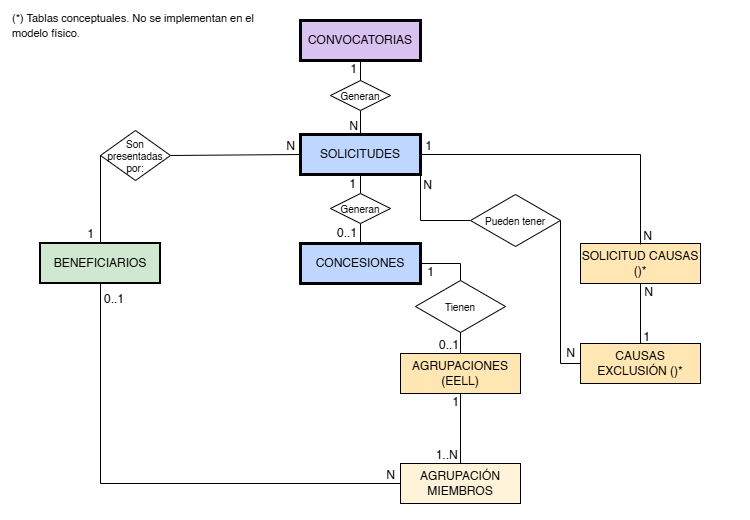
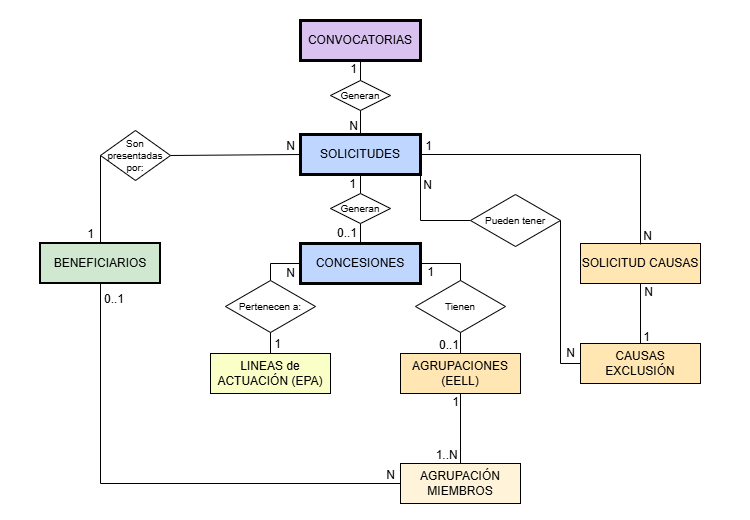
docs: corregir causas exclusion EELL y añadir nota de validacion pendiente

diff --git a/docs/modelo-datos.md b/docs/modelo-datos.md
@@ -35,7 +35,7 @@ Los documentos oficiales publicados por la DGDA contienen:
 - importes concedidos
 - puntuaciones
 - entidades beneficiarias
-- causas de exclusión (solo en EELL 2025)
+- causas de exclusión (solo en EELL: 2023, 2024 y 2025)
 - tramos (solo en EELL 2025)
 
 ---
@@ -349,6 +349,8 @@ Los documentos oficiales indican que una solicitud puede ser excluida por varias
 Por ello se mantiene la estructura normalizada `causas_exclusion` + `solicitud_causas` en el **modelo conceptual**, representada en el diagrama con asterisco (*) y la nota "Tablas conceptuales. No se implementan en el modelo físico actual del proyecto por viabilidad técnica."
 
 La implementación se pospone a una fase futura, ya que la extracción automática de causas desde los documentos oficiales requiere un trabajo de parsing adicional. **Estas tablas no están incluidas en `docker/init/modelo-fisico.sql`**: se añadirán en su momento junto con el script de carga de datos correspondiente.
+
+> **Pendiente de validación:** el campo `causa_exclusion` del dataset JSON contiene los códigos capturados para las EELL (2023, 2024 y 2025), pero no han sido verificados sistemáticamente contra la fuente original (Excel de resoluciones). Esta validación se realizará cuando se implemente la carga de causas en la base de datos.
 
 ---
 

diff --git a/README.md b/README.md
@@ -57,13 +57,18 @@ Frontend
 
 ---
 
-## Modelo de datos (diagrama ER)
+## Modelo de datos (comparativa diagramas ER)
 
-<p align="center">
-  <a href="docs/img/modelo-datos-er.png">
-    <img src="docs/img/modelo-datos-er.png" width="750">
-  </a>
-</p>
+<table align="center">
+  <tr>
+    <th>Original</th>
+    <th>Revisado</th>
+  </tr>
+  <tr>
+    <td><img src="docs/img/modelo-datos-er-v1.png" width="400"></td>
+    <td><img src="docs/img/Modelo-ER-Def.jpg" width="400"></td>
+  </tr>
+</table>
 
 ---
 
